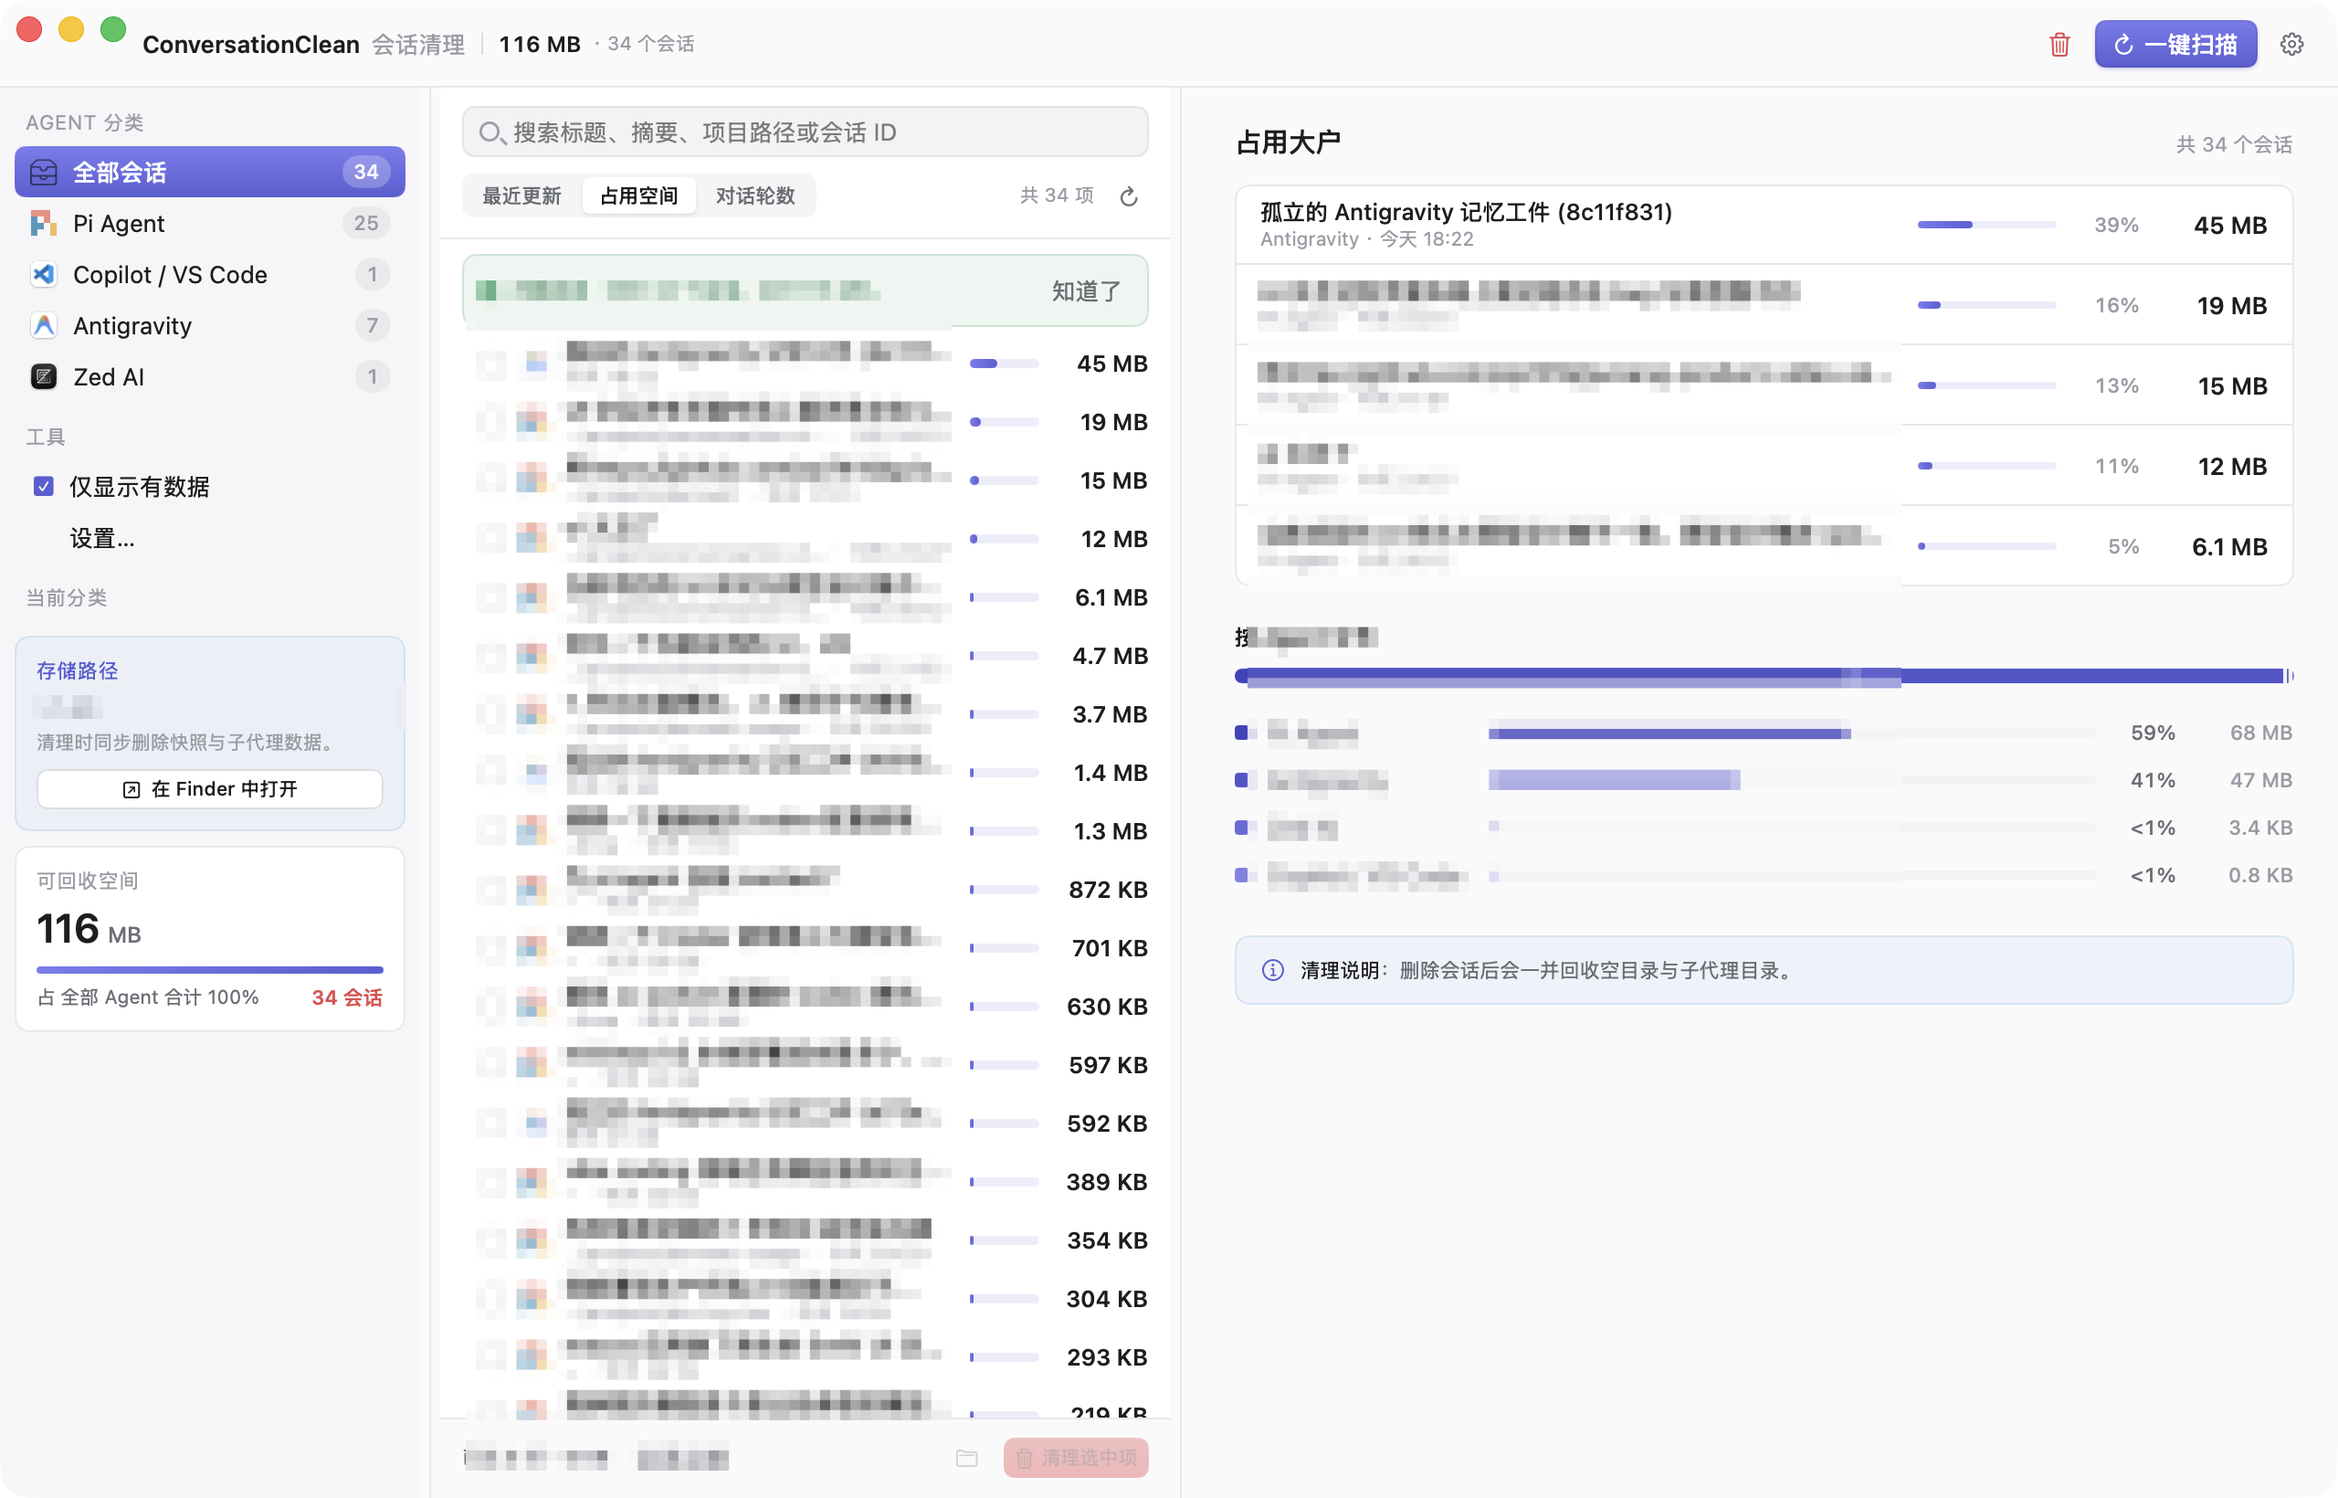
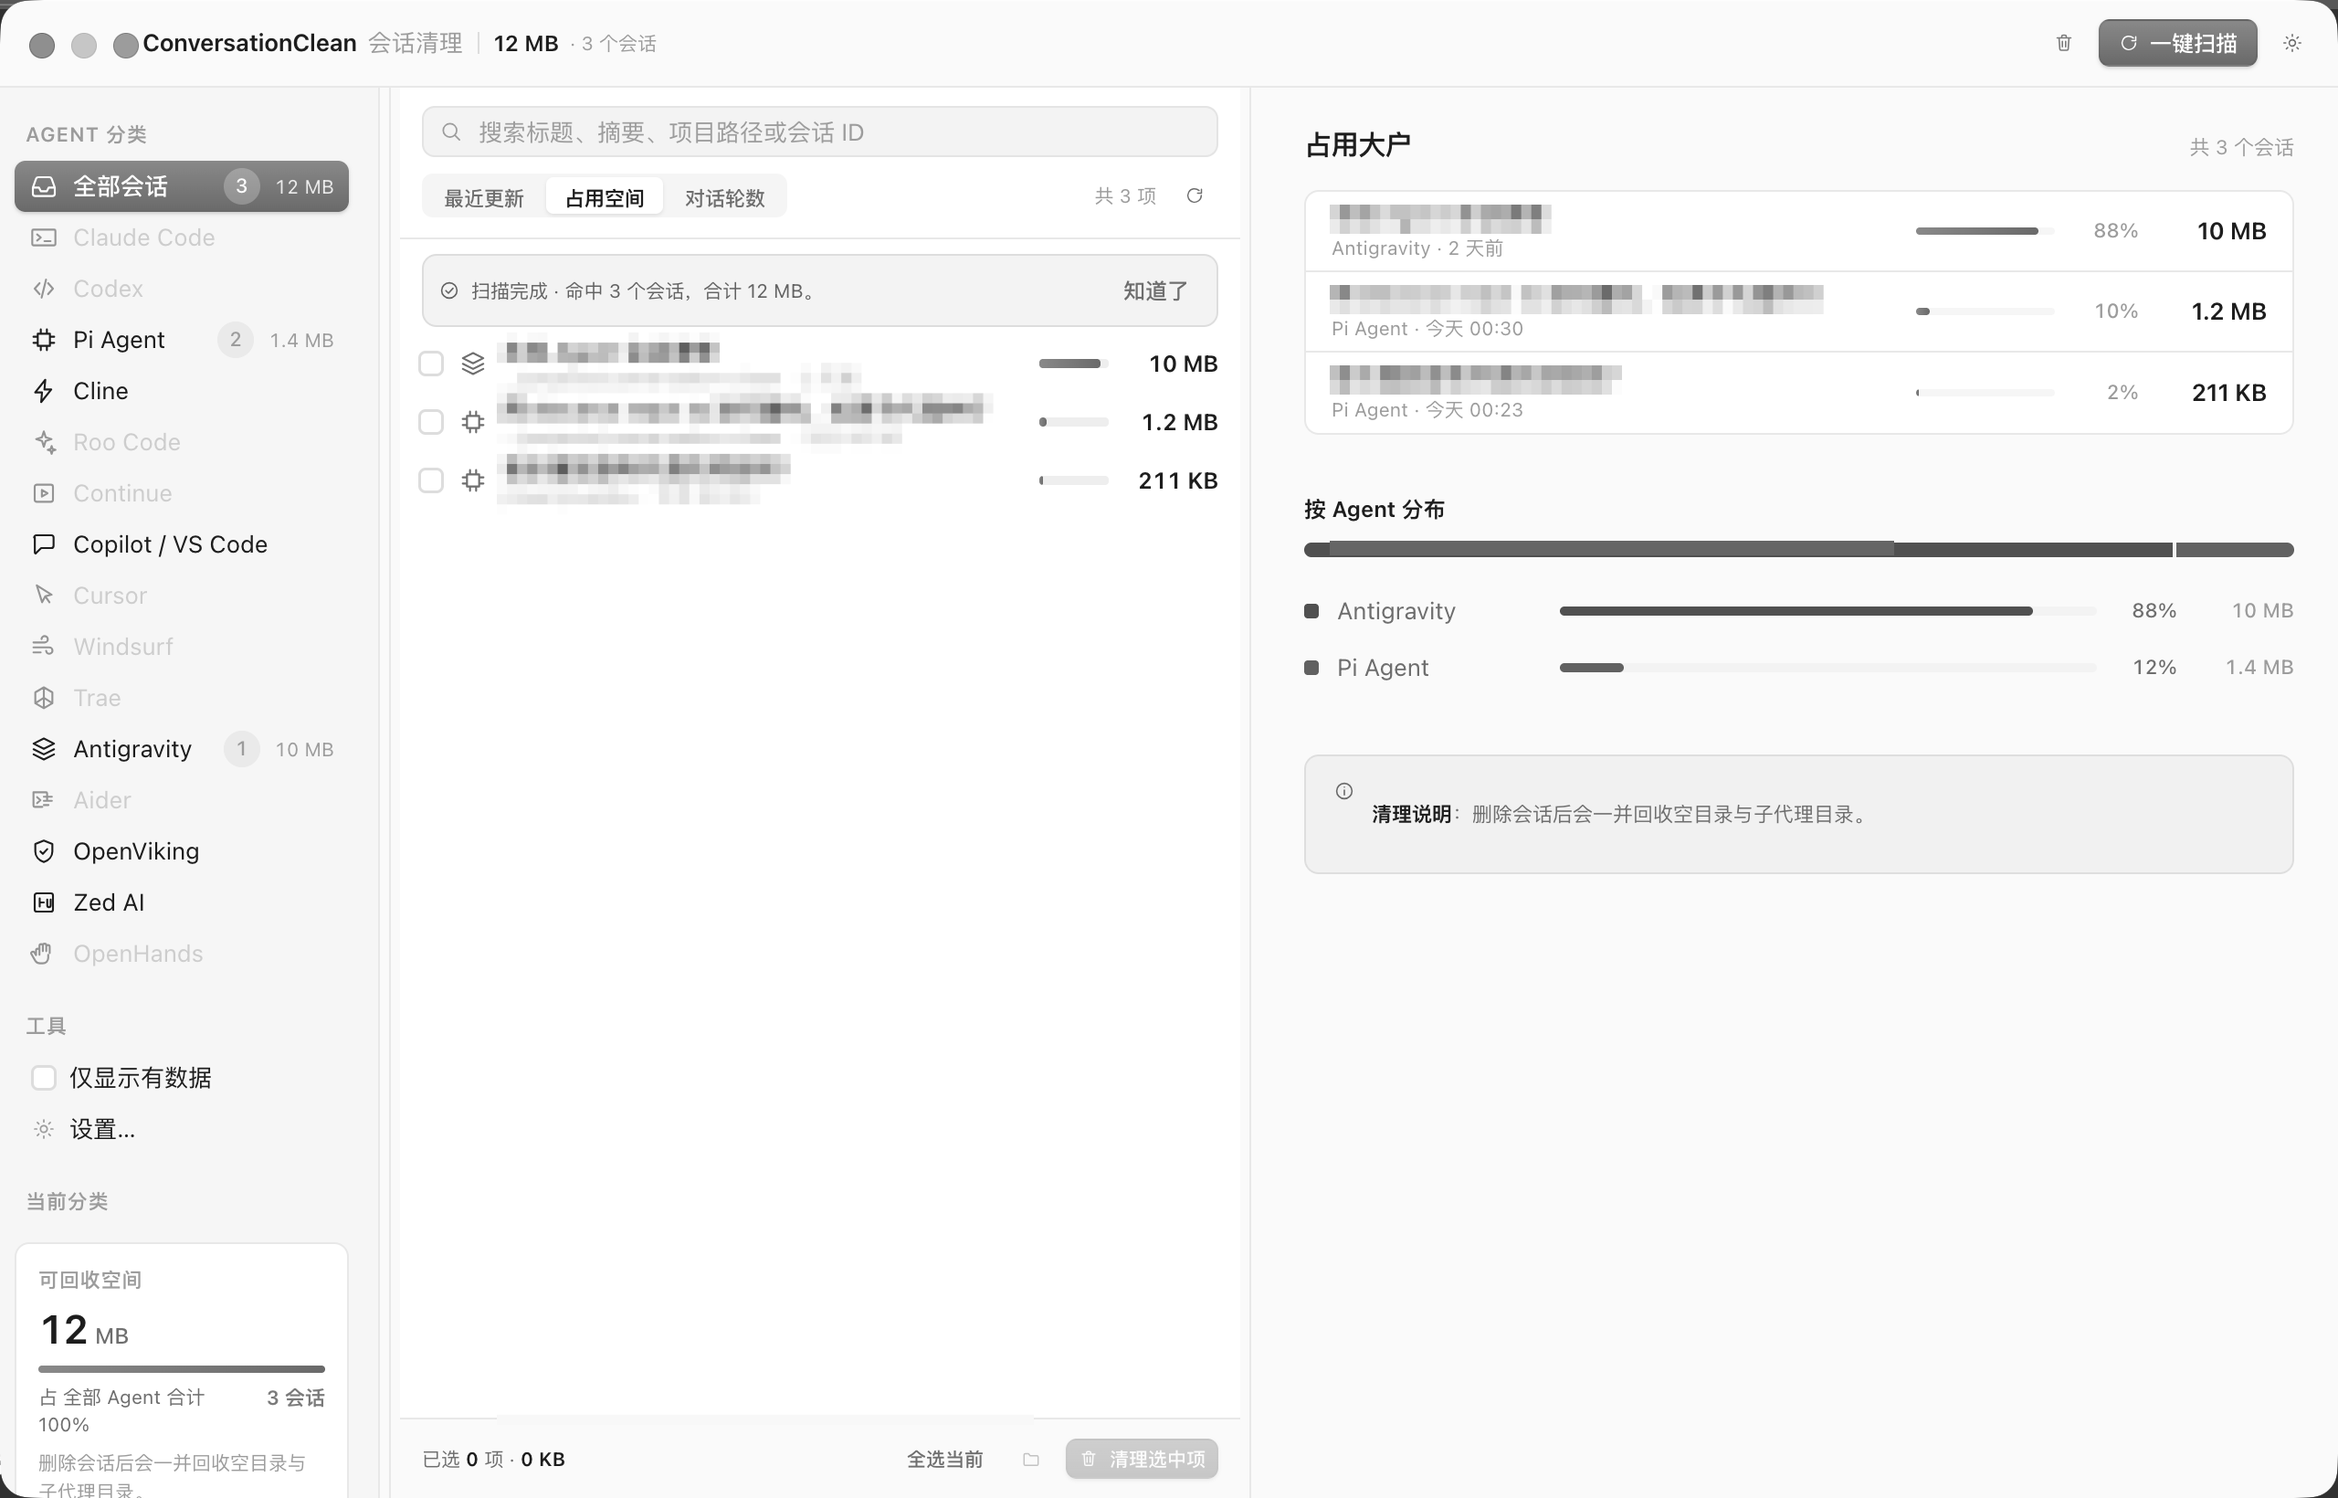
docs: 用 Electron 实机截图替换 README 首图
旧图是 Swift 版的界面，README 讲的是 Electron 架构，首图与内容不符。

打码脚本的坐标全部重测，不能从 Swift 版平移：
  · 列宽默认值两套不一样（Swift 230/400，Electron 208/460），
    实测中栏白区在 219..678pt，与 cleanStore 的 DEFAULT_COLUMN_WIDTHS 吻合。
  · 坐标改用程序逐行扫描墨迹得出。第一版把中栏 y0 定在 189，
    实测首行文字从 187 就开始 —— 顶部漏了 2pt，放大后「本地 Agent 会话清理」
    的字头清晰可读。**差 2pt 就是数据泄漏**，目测在这里栽了。
  · 右栏「按 Agent 分布」的位置取决于上面有几行（Top3 在 260pt，Top5 推到 348pt），
    所以「盖住全部 5 行」与「不糊掉分布区」对任何固定矩形都互斥。
    改为按 Top5 固定行距（实测 44pt）逐行打标题：5 行全盖、分布区永不受影响，
    副标题（Agent 名 + 相对时间）因此得以保留 —— 比旧做法多留一层信息。

顺带修掉取样崩溃：macOS screencapture 的 PNG 带灰度 ICC profile，
ImageMagick 7 照它把图判成 grayscale，%[pixel:p{0,0}] 吐 gray(255) 而非
srgb(255,255,255)，解析 unpack 失败。入口统一 -define png:color-type=2 绕开。

diff --git a/scripts/mosaic_readme_shot.py b/scripts/mosaic_readme_shot.py
@@ -16,59 +16,59 @@ import tempfile
 VIEW_W, VIEW_H = 1280, 820  # 缩略基准（= 窗口 point 尺寸，1:1 好核对）
 BLOCK = 11                 # 马赛克块边长（最终像素）
 
-# 三条分隔条在 VIEW_W 坐标系里的预期 x。用来在打码前校验截图栏宽，
+# 三条分隔条在 VIEW_W 坐标系里的预期边界。用来在打码前校验截图栏宽，
 # 不一致就直接报错停下。
 #
-# 🔴 这里踩过坑：三栏宽度存在 @AppStorage（sidebarWidth / listWidth）里，
-# 是**用户上次拖分隔条的结果**，不是代码默认值。实测过一次残留的
-# listWidth=577.46，于是中栏 578pt / 右栏 455pt，比默认宽出一大截 ——
-# 按默认值算出来的打码框全部错位，右侧栏「按 Agent 分布」的 Agent 名称
-# 被糊掉，而它恰恰是这张图要展示的主体信息。
-# 所以：拍截图前必须先 `defaults delete <bundle> sidebarWidth listWidth`。
-EXPECTED_COLS = {"sidebar": (0, 230), "list": (241, 641), "detail": (647, 1280)}
+# [坑] 这里踩过坑，而且 **Electron 移植后又踩了一次**：
+# 列宽存在 localStorage（sidebarWidth / listWidth）里，是**用户上次拖分隔条的结果**，
+# 不是代码默认值。Swift 版实测过一次残留的 listWidth=577.46，于是中栏比默认宽出一大截
+# —— 按默认值算出来的打码框全部错位，右侧栏「按 Agent 分布」的 Agent 名称被糊掉，
+# 而它恰恰是这张图要展示的主体信息。
+#
+# Swift 版：   侧栏 230 / 中栏 241..641 / 右栏 647..1280
+# Electron 版：cleanStore.ts 的 DEFAULT_COLUMN_WIDTHS = { sidebar: 208, list: 460 }
+#              → 实测中栏白区在 219..678（208 + 11pt 分隔条）
+# **两套默认值不一样**，所以坐标必须重测，绝不能平移。
+#
+# 拍截图前要确保用的是默认值：删掉 Electron userData 里的 Local Storage
+# （~/Library/Application Support/ConversationClean/）。
+EXPECTED_COLS = {"sidebar": (0, 219), "list": (219, 678), "detail": (678, 1280)}
 
-# (说明, x0, y0, x1, y1) —— 缩略坐标
+# (说明, x0, y0, x1, y1) —— view 坐标（1280x820 基准）
 #
-# 只打码真正敏感的三类：会话标题（即首条 user prompt 原文）、项目路径。
-# 刻意**保留**：Agent 名称、字节数、占比、相对时间 —— 这些正是这张图要展示的信息，
-# 全糊掉就看不出「哪款 Agent 占得多」。所以「按 Agent 分布」整块不动，
-# 下面的统计表仍然列出每款 Agent 的名称与字节数。
+# 只打码真正敏感的两类：会话标题（即首条 user prompt 原文）、项目路径。
+# 刻意**保留**：Agent 名称、字节数、占比、相对时间 —— 这些正是这张图要展示的信息。
 #
-# 坐标全部从新布局的控件宽度与实测绘图得出，不是目测：
-#   中栏 241..641pt，行 padding .leading 10 / .horizontal 16 → 内容 251..625pt；
-#     右侧固定列 ShareBar 38 + gap 8 + 体积 52 = 98pt，占到 527..625
-#     → .tcol 右边界 519pt。取 258..522（两边各留 3pt），
-#     千万别往右扩到 540 —— 那会连占比条一起糊掉，占比正是要展示的信息。
-#     y：列表行从 154pt 开始（实测第一行文字 y 154..164），行高 32pt，末行到 ~800pt。
-#   侧栏存储路径：实测「~/.pi」文字在 y 383..392pt。上下两行分别是
-#     「存储路径」小标题（y≈371）和「清理时同步删除…」策略说明（y 402..410），
-#     后者不是敏感信息，所以只糊 374..400 这一行。
-#   右栏 652..1280pt，det-scroll padding 24 + 卡片 padding 14 → 内容 690..1242pt；
-#     固定列 占比条 76 + gap 12 + 百分比 34 + gap 12 + 大小 58 = 204pt
-#     → .nm 右边界 1038pt。取 688..1040。
-#     y：卡片首行文字 y 154..165，5 行止于 y≈491（实测最后一段 475..491），
-#     取 148..505。再往下 y 515 起是「按 Agent 分布」的 4 行 Agent 名称 ——
-#     那是这张图要展示的主体信息，**必须留在外面**。
+# 坐标全部由程序实测得出，不是目测：把打码后的图按 view 坐标逐行扫描墨迹，
+# 找出每条文字带的上下沿（见 commit message 里记的扫描方法）。目测在这里栽过：
+# 第一版把中栏 y0 定在 189，而实测第一行文字从 187 就开始 —— 顶部漏了 2pt，
+# 放大后「本地 Agent 会话清理」的字头清晰可读。**差 2pt 就是数据泄漏。**
+#
+# 中栏（x 272..566，y 182..780）：
+#   · 左界 272：白区从 219 起，行内 checkbox 占 219..272。
+#   · 右界 566：行内右侧固定列（占比条 38 + gap 8 + 体积 52）从 566 起。
+#     千万别往右扩到 600 —— 那会把占比条糊掉，而占比正是要展示的信息。
+#   · 上界 182：实测首行文字顶在 187，留 5pt 余量。
+#   · 下界 780：批量条（已选 N 项）在 ~790，往下就不是列表了。
+#     上界要留这么宽是因为**行数不定** —— 10 条会话时文字会一直铺到 780。
+#   · 行与行之间只有空白，占多高都不会误伤别的信息。
+#
+# 右栏为什么**逐行**打码而不是一个大框：
+#   「按 Agent 分布」这一节的位置**取决于上面有几行** ——
+#   Top3 时标题在 y≈260，Top4 被推到 ≈304，Top5 推到 ≈348。
+#   所以「盖住全部 5 行」与「不糊掉分布区」对任何固定矩形都是互斥的。
+#   （脚本注释里记过一次翻车：坐标错位把分布区的 Agent 名称糊掉了。）
+#   改成按 Top5 的固定行距（实测 44pt）逐行打标题，5 行全盖、分布区永不受影响，
+#   且不依赖这次截了几个会话。副标题（Agent 名 + 相对时间）保留 —— 不是敏感信息。
 REGIONS = [
-    # 中栏 241..641pt，行 padding .leading 10 / .horizontal 16 → 内容 251..624pt；
-    #   右侧固定列 ShareBar 38 + gap 8 + 体积 52 = 98pt 占到 526..624
-    #   → .tcol 右边界 518pt。取 255..521。千万别往右扩到 540：
-    #   那会连占比条一起糊掉，而占比正是这张图要展示的信息。
-    #   y：第一行文字 154..164pt，行高 32pt，末行到 ~800pt。
-    ("列表：会话标题 + 项目路径", 255, 148, 521, 805),
-    # 会话 ID 列在本次改造中已删除（它占 62pt 却用 tertiary 色几乎不可见），
-    # 所以不再需要为它保留打码区。
-    # 侧栏：实测「~/.pi」文字在 y 383..392pt。上下分别是「存储路径」小标题
-    #   （y≈371）和「清理时同步删除…」策略说明（y 402..410），
-    #   后者不是敏感信息，所以只糊 374..400 这一行。
-    ("侧栏：当前分类存储路径", 12, 374, 228, 400),
-    # 右栏 647..1280pt，det-scroll padding 24 + 卡片 padding 14 → 内容 671..1255 → 卡内 685..1241pt；
-    #   固定列 76 + 12 + 34 + 12 + 58 = 204pt → .nm 右边界 1037pt。取 683..1041。
-    #   y：卡首行文字 154..165pt，5 行止于 ~491pt，取 148..505。
-    #   再往下 y 515 起是「按 Agent 分布」的 4 行 Agent 名称 ——
-    #   那是这张图要展示的主体信息，**必须留在外面**。
-    ("详情栏：占用大户 5 行标题 + 副标题", 683, 148, 1041, 505),
+    ("中栏：会话标题 + 项目路径", 272, 182, 566, 780),
+    ("右栏：占用大户 第1行标题", 728, 112, 1037, 128),
+    ("右栏：占用大户 第2行标题", 728, 156, 1037, 172),
+    ("右栏：占用大户 第3行标题", 728, 200, 1037, 216),
+    ("右栏：占用大户 第4行标题", 728, 244, 1037, 260),
+    ("右栏：占用大户 第5行标题", 728, 288, 1037, 304),
 ]
+
 
 
 def check_column_widths(src: pathlib.Path, W: int, H: int) -> None:
@@ -89,7 +89,11 @@ def check_column_widths(src: pathlib.Path, W: int, H: int) -> None:
              "-format", "%[pixel:p{0,0}]", "info:"],
             capture_output=True, text=True, check=True).stdout.strip()
         nums = out[out.index("(") + 1:out.index(")")].split(",")
-        return tuple(int(round(float(v))) for v in nums[:3])
+        vals = [int(round(float(v))) for v in nums[:3]]
+        # 万一又被判成灰度（`gray(255)` 只有 1 个分量），补齐成 RGB 再比。
+        if len(vals) == 1:
+            vals = vals * 3
+        return tuple(vals)
 
     # 从 x=300pt 一路向右，找连续白区（#FFFFFF）的终点
     white_end = None
@@ -99,23 +103,37 @@ def check_column_widths(src: pathlib.Path, W: int, H: int) -> None:
             white_end = x_pt
         elif white_end is not None and x_pt - white_end > 12:
             break
-    expected = EXPECTED_COLS["list"][1]          # 641
+    expected = EXPECTED_COLS["list"][1]          # 678
     if white_end is None or abs(white_end - expected) > 4:
         raise SystemExit(
             f"栏宽与预期不符，拒绝打码：\n"
             f"  中栏右边界实测在 x≈{white_end}pt，预期 {expected}pt"
             f"（偏差 {None if white_end is None else white_end - expected:+d}pt）\n\n"
-            f"原因：sidebarWidth / listWidth 存在 @AppStorage 里，"
+            f"原因：sidebarWidth / listWidth 存在 localStorage 里，"
             f"是上次拖分隔条的结果，不是代码默认值。\n"
-            f"拍截图前先执行：\n"
-            f"  defaults delete com.ruanbw.ConversationClean sidebarWidth\n"
-            f"  defaults delete com.ruanbw.ConversationClean listWidth")
+            f"拍截图前先删掉 Electron userData 下的 Local Storage：\n"
+            f"  rm -rf ~/Library/Application\\ Support/ConversationClean/Local\\ Storage")
     print(f"column widths OK: 中栏右边界 x={white_end}pt "
-          f"（= 侧栏 230 + 中栏 400 + 两条分隔条 11pt）")
+          f"（= 侧栏 208 + 分隔条 11 + 中栏 460 - 1 舍入）")
 
 
 def main() -> None:
-    src, dst = pathlib.Path(sys.argv[1]), pathlib.Path(sys.argv[2])
+    raw, dst = pathlib.Path(sys.argv[1]), pathlib.Path(sys.argv[2])
+    # 先归一到 sRGB 再干活。
+    # macOS `screencapture` 出来的 PNG 带 ICC profile，ImageMagick 7 会照着它
+    # 把图当成灰度，于是 `%[pixel:p{0,0}]` 吐 `gray(255)` 而不是 `srgb(255,255,255)`，
+    # 下面的解析直接 unpack 失败。PIL 读同一张图是正常 RGB —— 是 IM 的解释问题，
+    # 不是图坏了。所以在入口统一指定色彩空间，不依赖调用方记得加参数。
+    tmpdir0 = pathlib.Path(tempfile.mkdtemp(prefix="ccnorm-"))
+    src = tmpdir0 / "normalized.png"
+    # `-define png:color-type=2` 强制按真 RGB 写出。`-colorspace sRGB` / `-strip`
+    # 都不够：IM 7 会照着 macOS screencapture 内嵌的灰度 ICC profile 把整张图
+    # 判成 grayscale，于是 `%[pixel:p{0,0}]` 吐 `gray(255)` 而不是
+    # `srgb(255,255,255)`，下面的解析 unpack 失败。PIL 读同一张图是正常 RGB，
+    # 所以是 IM 的解释问题、不是图坏了 —— 绕开它的 profile 解释即可。
+    subprocess.run(
+        ["magick", str(raw), "-colorspace", "sRGB", "-define", "png:color-type=2", str(src)],
+        check=True)
     W, H = (int(v) for v in subprocess.run(
         ["magick", "identify", "-format", "%w %h", str(src)],
         capture_output=True, text=True, check=True).stdout.split())
@@ -144,6 +162,7 @@ def main() -> None:
     args.append(str(dst))
     subprocess.run(args, check=True)
     shutil.rmtree(tmpdir, ignore_errors=True)
+    shutil.rmtree(tmpdir0, ignore_errors=True)
     print(f"-> {dst}")
 
 
